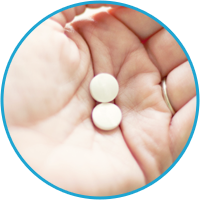
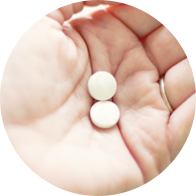
review edits

diff --git a/source/template/common/g__doc.html b/source/template/common/g__doc.html
@@ -1,6 +1,6 @@
 <section class="doc block">
 	<div class="container">
-		<h2 class="title"><span class="accent"><span class="logo__number">20</span>FLEX+</span> с гиалуроновой кислотой&nbsp;– это первое эффективное средство </h2>
+		<h2 class="title"><span class="accent"><span class="logo__number">20</span>FLEX+</span> с&nbsp;гиалуроновой кислотой&nbsp;– это первое эффективное средство </h2>
 		<p class="doc__subtitle">для восстановления суставов</p>
 		<div class="doc__content">
 			<div class="doc__text">

diff --git a/source/style/common/b__pain.scss b/source/style/common/b__pain.scss
@@ -287,7 +287,7 @@
 @media (max-width: 1023px) {
     .pain {
         &-content {
-            padding-top: 35px;
+            padding-top: 20px;
 
             &-box {
                 &__head {
@@ -376,7 +376,7 @@
 
         &-theme {
             font-size: 19px;
-            margin-top: 40px;
+            margin-top: 25px;
             padding: 15px 0;
             width: 520px;
         }

diff --git a/source/style/common/j__reviews.scss b/source/style/common/j__reviews.scss
@@ -151,7 +151,7 @@
           transition: all 0.4s;
 
           &-active {
-            max-height: 700px;
+            max-height: 700px !important;
 
             &::before {
               display: none;

diff --git a/source/style/app.scss b/source/style/app.scss
@@ -125,8 +125,8 @@ b{
     max-width: 750px;
   }
   .title {
-    font-size: 39px;
-    line-height: 39px;
+    font-size: 38px;
+    line-height: 38px;
   }
 
   .block {

diff --git a/source/style/common/h__result.scss b/source/style/common/h__result.scss
@@ -81,7 +81,7 @@
 			margin-top: 12px;
 		}
 		&__list {
-			margin-top: 24px;
+			margin-top: 5px;
 			flex-wrap: wrap;
 			justify-content: space-around;
 

diff --git a/source/style/common/i__efficiency.scss b/source/style/common/i__efficiency.scss
@@ -182,7 +182,7 @@
 			margin-top: 14px;
 		}
 		&__content {
-			margin-top: 40px;
+			margin-top: 25px;
 		}
 		&__head {
 			width: 100%;

diff --git a/source/style/common/k__use.scss b/source/style/common/k__use.scss
@@ -60,6 +60,7 @@
 .use__pic {
     max-width: 200px;
     border-radius: 50%;
+    border: 4px solid #1da5d2;
 }
 
 .use__img {
